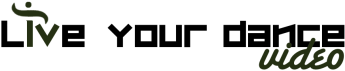
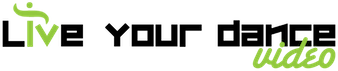
updated images

diff --git a/apps/admin/templates/layout.php b/apps/admin/templates/layout.php
@@ -13,7 +13,7 @@
       <div id="header">
         <h1>
           <a href="<?php echo url_for('@homepage') ?>">
-            <img src="/images/lyd-video-inverted.png" alt="Admin" />
+            <img src="/images/lyd-video-b&w.png" alt="Admin" />
           </a>
         </h1>
       </div>
